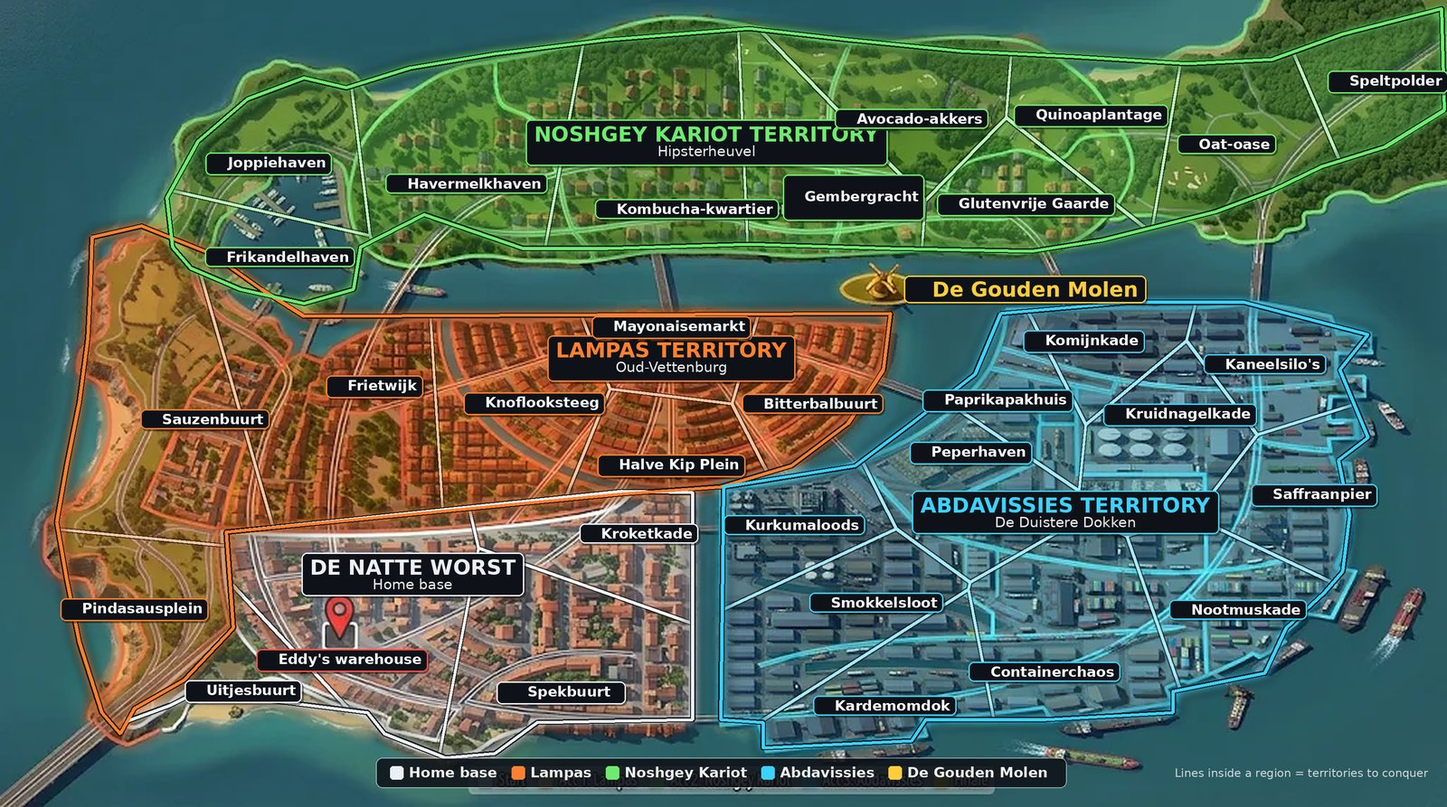
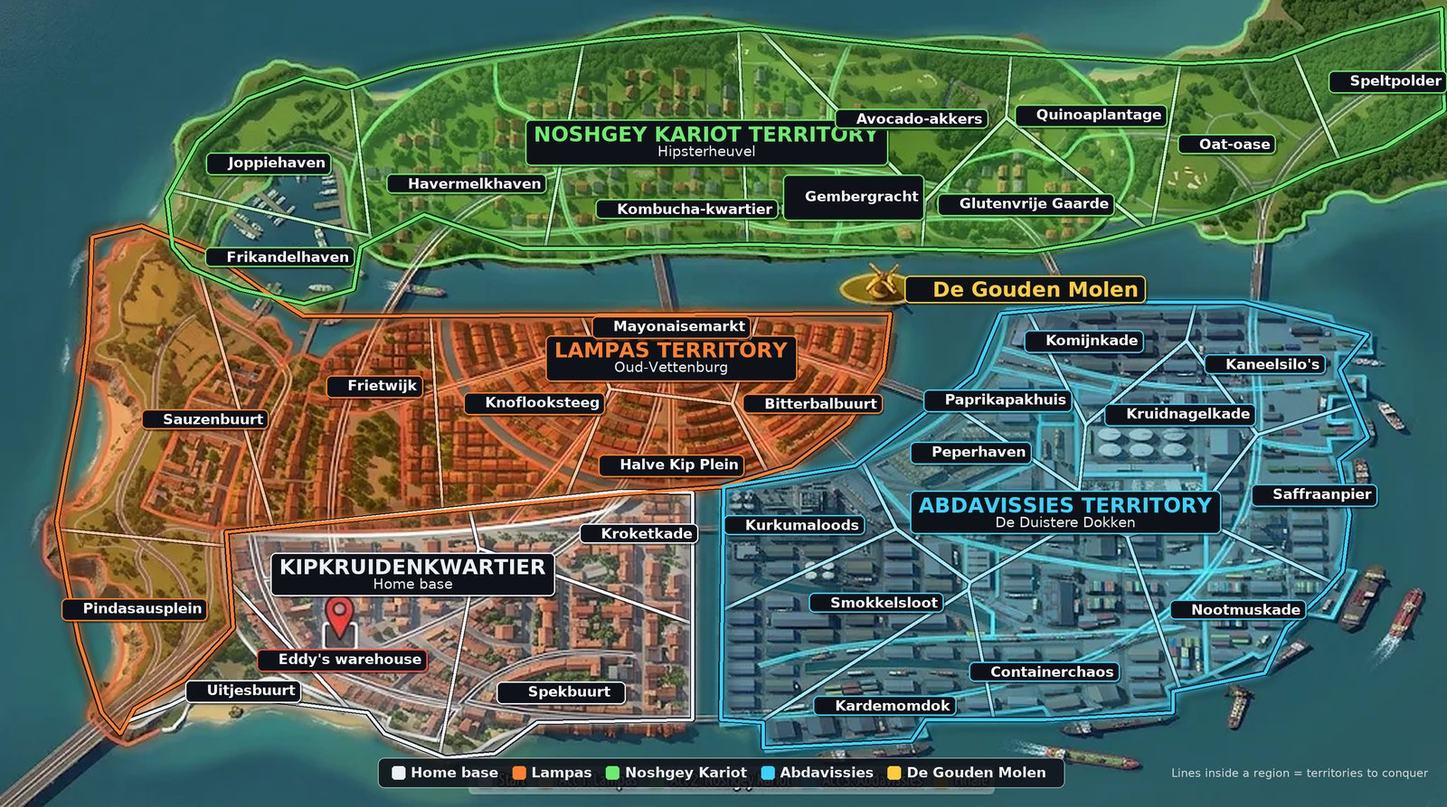
Rename the home district De Natte Worst to Kipkruidenkwartier
Map, labels, UI text, start menu, drive and README. Old saves are migrated on load.

diff --git a/browser-game/js/main.js b/browser-game/js/main.js
@@ -1,4 +1,4 @@
-// Spice Master Eddy: Chapter 0, De Natte Worst.
+// Spice Master Eddy: Chapter 0, Kipkruidenkwartier.
 // Neon Vice-style top-down browser game: three.js, PS2-style low-poly people with photo faces.
 import * as THREE from '../vendor/three.module.min.js';
 import { Music } from './music.js';
@@ -1127,11 +1127,11 @@ function renderPC() {
     if (!state.mapSeen) { state.mapSeen = true; setTimeout(onMapSeen, 400); }
   } else if (pcTab === 'bank') {
     title.textContent = 'My Wilders · Kaasbank';
-    body.innerHTML = `<div class="well">Balance: <b>${fmt(state.money)}</b><br>Passive income: <b>${fmt(state.income)}</b> per 6 sec<br>Naknikim employed: <b>${state.naknik}</b><br>Market day: <b>${econ.ensure().day}</b> · Spice in stock: <b>${econ.stockTotal()} kg</b><br>Territories: <b>${1 + d1Owned()}</b> (De Natte Worst${D1.filter(([, id]) => owns(id)).map(([n]) => ', ' + n).join('')})<br><br><i>"Whoever holds the spice, holds Kaasland." · Eddy Sr.</i></div>${econ.rankHTML()}${state.table ? econ.propertyHTML() : ''}`;
+    body.innerHTML = `<div class="well">Balance: <b>${fmt(state.money)}</b><br>Passive income: <b>${fmt(state.income)}</b> per 6 sec<br>Naknikim employed: <b>${state.naknik}</b><br>Market day: <b>${econ.ensure().day}</b> · Spice in stock: <b>${econ.stockTotal()} kg</b><br>Territories: <b>${1 + d1Owned()}</b> (Kipkruidenkwartier${D1.filter(([, id]) => owns(id)).map(([n]) => ', ' + n).join('')})<br><br><i>"Whoever holds the spice, holds Kaasland." · Eddy Sr.</i></div>${econ.rankHTML()}${state.table ? econ.propertyHTML() : ''}`;
     econ.propertyBind(body, renderPC);
   }
 }
-// ------------------------------------------------------------------ district 1: De Natte Worst (Spekbuurt, Kroketkade, Uitjesbuurt)
+// ------------------------------------------------------------------ district 1: Kipkruidenkwartier (Spekbuurt, Kroketkade, Uitjesbuurt)
 // Each territory is a mission (js/levels/*.js). Spekbuurt opens the other two; owning all three clears the district.
 const D1 = [['Spekbuurt', 'spekbuurt', 1], ['Kroketkade', 'kroketkade', 2], ['Uitjesbuurt', 'uitjesbuurt', 3]];
 const DISTRICT_BONUS = 5000;
@@ -1140,12 +1140,12 @@ const d1Owned = () => D1.filter(([, id]) => owns(id)).length;
 function checkDistrict() { // all three owned: the district is yours, once
   if (state.district1 || d1Owned() < D1.length || (mission && mission.active)) return false;
   state.district1 = true; addMoney(DISTRICT_BONUS);
-  toast('DE NATTE WORST IS YOURS', `All three territories are yours. Bonus: W ${DISTRICT_BONUS.toLocaleString('nl-NL')}. Next: Oud-Vettenburg, Lampas heartland.`, 7);
+  toast('KIPKRUIDENKWARTIER IS YOURS', `All three territories are yours. Bonus: W ${DISTRICT_BONUS.toLocaleString('nl-NL')}. Next: Oud-Vettenburg, Lampas heartland.`, 7);
   [523, 659, 784, 1046, 1318].forEach((f, i) => setTimeout(() => beep(f, 0.2, 'triangle', 0.06), i * 120));
   writeSave(); return true;
 }
 const PINS = [
-  ['De Natte Worst', 235, 430, 'own'], ['Spekbuurt', 420, 465, 'next'],
+  ['Kipkruidenkwartier', 235, 430, 'own'], ['Spekbuurt', 420, 465, 'next'],
   ['Sauzenbuurt', 145, 297, 'a1'], ['Frietwijk', 265, 274, 'a1'], ['Knoflooksteeg', 378, 286, 'a1'], ['Mayonaisemarkt', 475, 232, 'a1'], ['Halve Kip Plein', 475, 330, 'a1'], ['Bitterbalbuurt', 575, 286, 'a1'],
   ['Havermelkhaven', 330, 130, 'a2'], ['Kombucha-kwartier', 502, 147, 'a2'], ['Avocado-akkers', 645, 84, 'a2'],
   ['Komijnkade', 767, 242, 'a3'], ['Smokkelsloot', 620, 427, 'a3'], ['Containerchaos', 739, 476, 'a3'],
@@ -1158,7 +1158,7 @@ let MAPL = null;
 fetch('./assets/map_labels.json').then((r) => r.json()).then((j) => { MAPL = j; }).catch(() => {});
 function mapHTML(van) {
   const col = { lost: '#e8a33d', m1: '#e8a33d', m2: '#e8a33d', own: '#2e8b2e', next: '#ffd36b', a1: '#ff8030', a2: '#6ed36e', a3: '#3cc8ff', fin: '#ffcc33' };
-  const kindOf = (n, r) => { const d = D1.find((x) => x[0] === n); if (d && owns(d[1]) && econ.isRetaken(d[1])) return 'lost'; if (n === 'De Natte Worst' || (d && owns(d[1]))) return 'own'; if (d) return d[2] === 1 ? 'm1' : owns('spekbuurt') ? 'm2' : 'next'; if (r === 'lampas' && state.district1) return 'next'; return ({ start: 'next', lampas: 'a1', nosh: 'a2', abd: 'a3', fin: 'fin' })[r]; };
+  const kindOf = (n, r) => { const d = D1.find((x) => x[0] === n); if (d && owns(d[1]) && econ.isRetaken(d[1])) return 'lost'; if (n === 'Kipkruidenkwartier' || (d && owns(d[1]))) return 'own'; if (d) return d[2] === 1 ? 'm1' : owns('spekbuurt') ? 'm2' : 'next'; if (r === 'lampas' && state.district1) return 'next'; return ({ start: 'next', lampas: 'a1', nosh: 'a2', abd: 'a3', fin: 'fin' })[r]; };
   let h = `<div class="mapwrap"><img src="./assets/kaasland_map.jpg" alt="Map of Kaasland">`;
   if (MAPL) {
     const [W, H] = MAPL.size;
@@ -1203,8 +1203,8 @@ function bindMap() {
       own: d1 ? remixInfo(n, d1[1]) + (pcMode === 'van' ? ' <button class="b95" id="goM">Drive · remix raid</button>' : ' <i>Drive there in the Oofmobiel.</i>') : `<b>${n}</b>: your home base. The Eddy & Zn warehouse. ${pcMode === 'van' ? '<button class="b95" id="go">Drive</button>' : ''}`,
       lost: d1 ? remixInfo(n, d1[1]) + (pcMode === 'van' ? ' <button class="b95" id="goM">Drive · retake it</button>' : ' <i>Drive there in the Oofmobiel.</i>') : '',
       m1: `<b>Spekbuurt</b>: Lampas turf. Snackpaleis Spekbuurt sells their watered-down spice, and the back of house is full of Lampas. <b>Mission 1.</b> ${pcMode !== 'van' ? '<i>Drive there in the Oofmobiel.</i>' : state.kit.includes('maboota') ? '<button class="b95" id="goM">Drive · start mission</button>' : '<i>Get a weapon from The Russian first.</i>'}`,
-      m2: d1 ? `<b>${n}</b>: Lampas turf in De Natte Worst. ${blurb[n] || ''} <b>Mission ${d1[2]}.</b> ${drive('Drive · start mission')}` : '',
-      next: d1 ? `<b>${n}</b>: part of De Natte Worst, but the shoarma joints here still buy Lampas spice. <i>Take Spekbuurt first.</i>` : state.district1 ? `<b>${n}</b>: Oud-Vettenburg, the Lampas heartland. Next on the list. <i>(Missions in a later build.)</i> ${pcMode === 'van' ? '<button class="b95" id="goD">Drive to Oud-Vettenburg</button>' : '<i>Drive there in the Oofmobiel.</i>'}` : `<b>${n}</b>: part of De Natte Worst, but the shoarma joints here still buy Lampas spice. <i>(Coming in the next build.)</i>`,
+      m2: d1 ? `<b>${n}</b>: Lampas turf in Kipkruidenkwartier. ${blurb[n] || ''} <b>Mission ${d1[2]}.</b> ${drive('Drive · start mission')}` : '',
+      next: d1 ? `<b>${n}</b>: part of Kipkruidenkwartier, but the shoarma joints here still buy Lampas spice. <i>Take Spekbuurt first.</i>` : state.district1 ? `<b>${n}</b>: Oud-Vettenburg, the Lampas heartland. Next on the list. <i>(Missions in a later build.)</i> ${pcMode === 'van' ? '<button class="b95" id="goD">Drive to Oud-Vettenburg</button>' : '<i>Drive there in the Oofmobiel.</i>'}` : `<b>${n}</b>: part of Kipkruidenkwartier, but the shoarma joints here still buy Lampas spice. <i>(Coming in the next build.)</i>`,
       a1: `<b>${n}</b>: Lampas territory. Their watered-down spice, your customers. <i>Locked.</i>`,
       a2: `<b>${n}</b>: Noshgey Kariot territory. Organic, artisanal, wildly overpriced. <i>Locked.</i>`,
       a3: `<b>${n}</b>: Abdavissies territory. Nobody asks questions here. <i>Locked.</i>`,
@@ -1371,7 +1371,7 @@ function talkDad() {
       hire: 'A mixing table and a few Naknikim. Those boys aren\'t smart, but they mix like nobody else.',
       russian: 'Go on, the pawn shop at the east end. The Russian is expecting you.',
       map: 'Have a look at the map. Kaasland is big, and the Lampas are everywhere.',
-      free: state.district1 ? 'De Natte Worst is ours again, jongen. Your old man is proud. Oud-Vettenburg is where the Lampas really live.' : owns('spekbuurt') ? `Spekbuurt is ours. Now ${D1.filter(([, id]) => !owns(id)).map(([n]) => n).join(' and ')}. Then De Natte Worst is ours again.` : 'Spekbuurt is next. Three joints, all selling Lampas rubbish. Start there.',
+      free: state.district1 ? 'Kipkruidenkwartier is ours again, jongen. Your old man is proud. Oud-Vettenburg is where the Lampas really live.' : owns('spekbuurt') ? `Spekbuurt is ours. Now ${D1.filter(([, id]) => !owns(id)).map(([n]) => n).join(' and ')}. Then Kipkruidenkwartier is ours again.` : 'Spekbuurt is next. Three joints, all selling Lampas rubbish. Start there.',
     };
     dialogue([['Eddy Sr.', lines[state.step] || 'Get to work, jongen.']]);
   }
@@ -1391,7 +1391,7 @@ function updateObjective() {
     map: 'Check the <b>map of Kaasland</b> on the PC or in the Oofmobiel.',
     dad2: 'Talk to <b>Eddy Sr.</b> one last time.',
     russian: 'Visit <b>The Russian</b>: go inside <b>Pandjeshuis Spasibo</b>, east end of the street.',
-    free: state.district1 ? `<b style="color:#6ed36e">De Natte Worst is yours.</b>${state.loot ? ` Sell your ${state.loot} spice crate(s) on <b>Kaasplaats</b>.` : ''} <span style="color:#ffd36b">Next: Oud-Vettenburg, Lampas heartland (missions in a later build).</span>` : owns('spekbuurt') ? `<b style="color:#6ed36e">${D1.filter(([, id]) => owns(id)).map(([n]) => n).join(' and ')} ${d1Owned() > 1 ? 'are' : 'is'} yours.</b>${state.loot ? ` Sell your ${state.loot} spice crate(s) on <b>Kaasplaats</b>.` : ''} <span style="color:#ffd36b">Next: take ${D1.filter(([, id]) => !owns(id)).map(([n]) => `<b>${n}</b>`).join(' and ')}.</span> Drive there in the <b>Oofmobiel</b>.` : 'Kitted out. Chapter 0 done. <span style="color:#ffd36b">Next: take Spekbuurt from the Lampas.</span> Get in the <b>Oofmobiel</b> and drive there.',
+    free: state.district1 ? `<b style="color:#6ed36e">Kipkruidenkwartier is yours.</b>${state.loot ? ` Sell your ${state.loot} spice crate(s) on <b>Kaasplaats</b>.` : ''} <span style="color:#ffd36b">Next: Oud-Vettenburg, Lampas heartland (missions in a later build).</span>` : owns('spekbuurt') ? `<b style="color:#6ed36e">${D1.filter(([, id]) => owns(id)).map(([n]) => n).join(' and ')} ${d1Owned() > 1 ? 'are' : 'is'} yours.</b>${state.loot ? ` Sell your ${state.loot} spice crate(s) on <b>Kaasplaats</b>.` : ''} <span style="color:#ffd36b">Next: take ${D1.filter(([, id]) => !owns(id)).map(([n]) => `<b>${n}</b>`).join(' and ')}.</span> Drive there in the <b>Oofmobiel</b>.` : 'Kitted out. Chapter 0 done. <span style="color:#ffd36b">Next: take Spekbuurt from the Lampas.</span> Get in the <b>Oofmobiel</b> and drive there.',
   }[state.step];
   if (state.step === 'hire' && state.table && state.naknik > 0) state.step = 'dad2';
   setObjective(t || '');
@@ -1404,8 +1404,8 @@ function updateObjective() {
 const SAVE_KEY = 'spiceMasterEddy.save', SAVE_VER = 1;
 const SAVE_FIELDS = ['step', 'money', 'table', 'naknik', 'mapSeen', 'kit', 'metRussian', 'raids', 'loan', 'metNabil', 'metSchmatzel', 'loot', 'spekbuurt', 'spekbuurtLootTaken', 'owned', 'lootTaken', 'district1', 'drives', 'ammo', 'pool', 'loadout', 'stash', 'econ', 'best', 'daily', 'npcs'];
 let saveExtra = {}, loadingSave = false, titleConfirm = false;
-function readSave() {
-  try { const raw = localStorage.getItem(SAVE_KEY); if (!raw) return null; const d = JSON.parse(raw); return d && typeof d === 'object' && d.state && typeof d.state === 'object' ? d : null; }
+function readSave() { // the home district was renamed from De Natte Worst (2026-11): old saves carry the old name in news and turf text
+  try { let raw = localStorage.getItem(SAVE_KEY); if (!raw) return null; raw = raw.replace(/(De |de )?Natte Worst/g, 'Kipkruidenkwartier'); const d = JSON.parse(raw); return d && typeof d === 'object' && d.state && typeof d.state === 'object' ? d : null; }
   catch (e) { return null; }
 }
 function clearSave() { try { localStorage.removeItem(SAVE_KEY); } catch (e) { /* storage blocked */ } saveExtra = {}; }
@@ -1437,7 +1437,7 @@ function applySave(d) {
 let savedGame = readSave();
 // ---- start menu: Continue / New Game / Controls / Music / Credits (mouse, keyboard, controller and touch)
 let titleView = 'main', titleSel = 0;
-const districtSummary = (st) => (st.econ && st.econ.rep ? ` · ${rankOf(st.econ.rep).name}` : '') + (st.district1 ? ' · De Natte Worst is yours' : ((n) => (n ? ` · ${n}/3 of De Natte Worst` : ''))(['spekbuurt', 'kroketkade', 'uitjesbuurt'].filter((id) => (st.owned && st.owned[id]) || (id === 'spekbuurt' && st.spekbuurt)).length));
+const districtSummary = (st) => (st.econ && st.econ.rep ? ` · ${rankOf(st.econ.rep).name}` : '') + (st.district1 ? ' · Kipkruidenkwartier is yours' : ((n) => (n ? ` · ${n}/3 of Kipkruidenkwartier` : ''))(['spekbuurt', 'kroketkade', 'uitjesbuurt'].filter((id) => (st.owned && st.owned[id]) || (id === 'spekbuurt' && st.spekbuurt)).length));
 const titleItems = () => titleView === 'confirm' ? [['no', 'Nee, terug'], ['yes', 'Ja, opnieuw beginnen']]
   : titleView === 'controls' || titleView === 'credits' ? [['back', 'Terug']]
   : [...(savedGame ? [['cont', 'Continue']] : []), ['new', 'New Game'], ['controls', 'Controls'], ['music', 'Music'], ['credits', 'Credits']];
@@ -1543,7 +1543,7 @@ function startGame() {
   if (state.step !== 'title') return;
   $('title').style.display = 'none'; document.body.classList.remove('on-title'); camPos.copy(player.position).add(new THREE.Vector3(0, 14, 4.5)); camLook.copy(player.position); state.step = 'talk'; updateObjective(); beep(440, 0.1, 'triangle'); writeSave();
   if (musicPref) { try { music.start(); } catch (e) { /* audio optional */ } }
-  toast('DE NATTE WORST', 'Eddy Sr. is waiting for you in the warehouse.', 2.6);
+  toast('KIPKRUIDENKWARTIER', 'Eddy Sr. is waiting for you in the warehouse.', 2.6);
 }
 
 // ------------------------------------------------------------------ street life: traffic, cyclists, pedestrians
@@ -2386,9 +2386,9 @@ mission = initMission({ THREE, scene, camera, player, state, box, cyl, lam, soli
   neonTube, neonRect, signTex, canvasTex, car, $, maboota, equip, swing, bubble, say, addInteract, clearPlayerSplats, sun, hemi, canvas,
   makeVan: () => oof.clone(true), save: () => writeSave(), kitChanged: () => kitText(), shop: SHOP, streetTargets, streetHit: hitStreetPerson, setBounds: (b) => { BOUNDS.cur = b; }, updateObjective, setArea: (t) => { $('area').textContent = t; } });
 initInput({ state, getMission: () => mission, canvas, beep, toast, gfx: post });
-// top-down drive to the next district (js/drive.js): from the van map once De Natte Worst is yours
+// top-down drive to the next district (js/drive.js): from the van map once Kipkruidenkwartier is yours
 const oofDrive = initDrive({ THREE, renderer, canvasTex, signTex, beep, virt, isPaused });
-function startDrive() { oofDrive.start({ from: 'De Natte Worst', to: 'Oud-Vettenburg', onDone: afterDrive }); }
+function startDrive() { oofDrive.start({ from: 'Kipkruidenkwartier', to: 'Oud-Vettenburg', onDone: afterDrive }); }
 function afterDrive(res) {
   clearPlayerSplats(); clock.getDelta();
   if (res.arrived) {

diff --git a/browser-game/js/drive.js b/browser-game/js/drive.js
@@ -1,4 +1,4 @@
-// Oofmobiel drive: a top-down driving level between districts (De Natte Worst → Oud-Vettenburg).
+// Oofmobiel drive: a top-down driving level between districts (Kipkruidenkwartier → Oud-Vettenburg).
 // Classic overhead city driving: the camera looks straight down, north is up, the van rotates under it.
 // Eddy drives the blue Oofmobiel through a grid of Kaasland streets: honk (E / Space) and pedestrians press
 // themselves against the wall and cars pull over; run someone over and you pay smartengeld; cross the
@@ -23,7 +23,7 @@ const HONK_LINES = ['HÈ!', 'GEK!', 'TOETER NIET!', 'MIJN FRIKANDEL!', 'RIJ NORM
 const HIT_LINES = ['AU!', 'MIJN HEUP!', 'SMARTENGELD!', 'IK HEB EEN ADVOCAAT!', 'NIET OP MIJN KAAS!', 'OEF!'];
 const CAR_LINES = ['TOET TOET!', 'JA JA, RUSTIG!', 'BUSJE!', 'GA DAN!'];
 const LAMPAS_LINES = ['DIT IS ONZE STRAAT!', 'LAMPAS!', 'STOP DAT BUSJE!', 'VERDUND IS LEKKER!'];
-const ROOF_ADS = [['LAMPAS SPICE', '99% ZOUT · 1% SPICE'], ['FRIKANDEL XXL', 'NU MET MEER FRIKANDEL'], ['KAASLAND VERZEKERT', 'OOK UW BUSJE (NIET)'], ['DE NATTE WORST', 'NAT SINDS 1652'], ['KAASDOWS 95', 'NU MET MUIS'], ['GOUDA GAMES', 'WIE KAAS ZEGT...']];
+const ROOF_ADS = [['LAMPAS SPICE', '99% ZOUT · 1% SPICE'], ['FRIKANDEL XXL', 'NU MET MEER FRIKANDEL'], ['KAASLAND VERZEKERT', 'OOK UW BUSJE (NIET)'], ['KIPKRUIDENKWARTIER', 'GEKRUID SINDS 1652'], ['KAASDOWS 95', 'NU MET MUIS'], ['GOUDA GAMES', 'WIE KAAS ZEGT...']];
 
 import { makeOofmobiel, makeCar as makeStreetCar } from './vehicles.js';
 
@@ -195,7 +195,7 @@ export function initDrive(ctx) {
     if (opt.chimney) box(0.7, 1.4, 0.7, wallM(0x5a3a30), x0 + 1, h + 0.7, z0 + 1);
   }
   function buildSouthBlock(b) {
-    // De Natte Worst: brick warehouses and flat-roofed blocks, split in quadrants
+    // Kipkruidenkwartier: brick warehouses and flat-roofed blocks, split in quadrants
     const mx = (b.x0 + b.x1) / 2 + (Math.random() - 0.5) * 6, mz = (b.z0 + b.z1) / 2 + (Math.random() - 0.5) * 6;
     const quads = Math.random() < 0.35 ? [[b.x0, b.x1, b.z0, mz], [b.x0, b.x1, mz, b.z1]] : [[b.x0, mx, b.z0, mz], [mx, b.x1, b.z0, mz], [b.x0, mx, mz, b.z1], [mx, b.x1, mz, b.z1]];
     for (const [x0, x1, z0, z1] of quads) {
@@ -713,7 +713,7 @@ export function initDrive(ctx) {
   function finish(res) { stop(); if (opts && opts.onDone) opts.onDone(res); }
   const fmt = (t) => `${Math.floor(t / 60)}:${String(Math.floor(t % 60)).padStart(2, '0')}`;
   function start(o) {
-    opts = { from: 'De Natte Worst', to: 'Oud-Vettenburg', ...o };
+    opts = { from: 'Kipkruidenkwartier', to: 'Oud-Vettenburg', ...o };
     D.active = true; document.body.classList.add('driving'); hud.style.display = 'block';
     $('drvRoute').textContent = `${opts.from} → ${opts.to}`;
     $('drvHint').textContent = 'W / ↑ gas · S / ↓ brake · A D steer · Shift handbrake · E / Space honk · ⌫ restart';

diff --git a/browser-game/js/economy.js b/browser-game/js/economy.js
@@ -103,8 +103,8 @@ const rng32 = (a) => () => { a |= 0; a = (a + 0x6D2B79F5) | 0; let t = Math.imul
 const hashStr = (str) => { let h = 2166136261; for (const c of str) h = Math.imul(h ^ c.charCodeAt(0), 16777619); return h >>> 0; };
 // Daily events (one may roll each market day; they change the clients' orders for that day)
 const EVENTS = [
-  { id: 'pricewar', text: (b) => `The Lampas dump cheap ${b.name} on De Natte Worst: clients pay 25% less for it today`, pay: 0.75 },
-  { id: 'kermis', text: () => 'Kermis in De Natte Worst! Every client orders 50% more today', vol: 1.5 },
+  { id: 'pricewar', text: (b) => `The Lampas dump cheap ${b.name} on Kipkruidenkwartier: clients pay 25% less for it today`, pay: 0.75 },
+  { id: 'kermis', text: () => 'Kermis in Kipkruidenkwartier! Every client orders 50% more today', vol: 1.5 },
   { id: 'feest', text: () => "Nabil throws a party at Schmatzel's: Schmatzel orders double today", vol: 2, only: 'schmatzel' },
   { id: 'regen', text: () => 'Three days of rain: nobody goes out, clients order 30% less today', vol: 0.7 },
 ];
@@ -515,7 +515,7 @@ export function createEconomy(deps) {
     }
     h += '</table>';
     if (e.owed.length) h += `<p>Owed to you: ${e.owed.map((o) => `${o.name} ${fmt(o.amount)} (in ${o.days} day${o.days > 1 ? 's' : ''})`).join(', ')}</p>`;
-    h += `<p><small>Take more joints to win more clients. ${cl.length < CLIENTS.length ? 'Each De Natte Worst territory you own becomes a client.' : ''}</small></p>`;
+    h += `<p><small>Take more joints to win more clients. ${cl.length < CLIENTS.length ? 'Each Kipkruidenkwartier territory you own becomes a client.' : ''}</small></p>`;
     return h;
   }
   function reportBind(body, rerender) {
@@ -614,7 +614,7 @@ export function createEconomy(deps) {
   let qty = 5;
   function html() {
     const e = ensure(), disc = deps.discount ? deps.discount() : 0;
-    let h = `<div class="well" style="margin-bottom:8px"><b>Kruidenbeurs De Natte Worst</b> · Market day <b>${e.day}</b> · Balance <b>${fmt(state.money)}</b><br>
+    let h = `<div class="well" style="margin-bottom:8px"><b>Kruidenbeurs Kipkruidenkwartier</b> · Market day <b>${e.day}</b> · Balance <b>${fmt(state.money)}</b><br>
       Warehouse stock: <b>${stockTotal()} / ${cap()} kg</b>${disc > 0 ? ` · Home turf discount <b>${Math.round(disc * 100)}%</b>` : ''}<br>
       <small>Prices move after every outing. Lampas grade is cheap and diluted, Bio is the Noshgey Kariot's overpriced best. Dock spices come through the Abdavissies, a few kilos a day.</small></div>`;
     if (e.news.length) h += `<div class="well" style="margin-bottom:8px;background:#ffffe0"><b>KAASLAND SPICE NEWS</b><br>${e.news.map((n) => `· ${n.text} <b style="color:${n.f > 1 ? '#b00000' : '#007000'}">${n.f > 1 ? '▲' : '▼'} ${Math.round(Math.abs(n.f - 1) * 100)}%</b>`).join('<br>')}</div>`;

diff --git a/browser-game/js/mission.js b/browser-game/js/mission.js
@@ -7,7 +7,7 @@
 //   - red barrels explode when shot
 // Rules: 3 lives (Neon Vice Easy), mouse aim, click / F attack, E grab / throw, 1 melee / 2 + 3 guns (wheel / Tab cycle), R reload (active reload), Shift sprint (loud), Backspace restart.
 //
-// Only one level lives in the scene at a time: it is built 300 m east of De Natte Worst when a mission starts (enter(id)) and
+// Only one level lives in the scene at a time: it is built 300 m east of Kipkruidenkwartier when a mission starts (enter(id)) and
 // the previous one is torn down (meshes and collision solids). initMission(ctx) gets the engine helpers from main.js.
 //
 // Grid legend (shared by all levels):
@@ -785,13 +785,13 @@ export function initMission(ctx) {
       holster(); syncHeld(); maboota.visible = true; equip(true);
       const u = player.userData; u.body.rotation.set(0, 0, 0); u.body.position.y = 0; cleanBlood(player);
       player.position.set(5.3, 0, -5.8); player.rotation.y = Math.PI;
-      setArea('KAASLAND · DE NATTE WORST'); hideScreen(); for (const p of pops) p.el.remove(); pops.length = 0;
+      setArea('KAASLAND · KIPKRUIDENKWARTIER'); hideScreen(); for (const p of pops) p.el.remove(); pops.length = 0;
       vigEl.style.opacity = flashEl.style.opacity = 0; bannerEl.style.opacity = 0; hud();
       updateObjective(); if (ctx.save) ctx.save();
       fade.style.opacity = '0';
     }, 480);
   }
-  addInteract({ get obj() { return van; }, pos: () => van.position, r: 4.2, enabled: () => M.active && !P.dead && !R.results && !ARR, label: () => ownsLevel(LV.id) ? 'Oofmobiel · drive home' : 'Oofmobiel · retreat to De Natte Worst', act: exit });
+  addInteract({ get obj() { return van; }, pos: () => van.position, r: 4.2, enabled: () => M.active && !P.dead && !R.results && !ARR, label: () => ownsLevel(LV.id) ? 'Oofmobiel · drive home' : 'Oofmobiel · retreat to Kipkruidenkwartier', act: exit });
 
   // ================================================================== KILLS, KNOCKDOWNS, SCORE
   function addKillScore(e, type) {

diff --git a/browser-game/index.html b/browser-game/index.html
@@ -4,7 +4,7 @@
 <meta charset="utf-8">
 <meta name="viewport" content="width=device-width, initial-scale=1, maximum-scale=1, user-scalable=no, viewport-fit=cover">
 <meta name="mobile-web-app-capable" content="yes"><meta name="apple-mobile-web-app-capable" content="yes">
-<title>Spice Master Eddy: De Natte Worst</title>
+<title>Spice Master Eddy: Kipkruidenkwartier</title>
 <style>
   /* ---------- fonts (OFL, vendored in assets/fonts so the game works offline) ---------- */
   @font-face { font-family: "Bungee"; src: url("assets/fonts/bungee.woff2") format("woff2"); font-display: swap; }
@@ -182,7 +182,7 @@
 </head>
 <body class="on-title">
 <canvas id="game"></canvas>
-<div id="area" class="hud">Kaasland · De Natte Worst</div>
+<div id="area" class="hud">Kaasland · Kipkruidenkwartier</div>
 <div id="objective" class="hud"></div>
 <div id="money" class="hud">W 0000000</div>
 <div id="income" class="hud"></div>
@@ -206,7 +206,7 @@
   <div class="tag">Behind every shoarma joint is a spice war.</div>
   <div class="menu" id="tmenu"></div>
   <div class="tinfo" id="tinfo"></div>
-  <div class="tfoot">KAASLAND · CHAPTER 0: DE NATTE WORST</div>
+  <div class="tfoot">KAASLAND · CHAPTER 0: KIPKRUIDENKWARTIER</div>
 </div></div>
 <script type="module" src="./js/main.js"></script>
 </body>

diff --git a/browser-game/tools/build_map.py b/browser-game/tools/build_map.py
@@ -14,7 +14,7 @@ img = base.resize((W, H), Image.LANCZOS).filter(ImageFilter.UnsharpMask(radius=2
 REGIONS = {
     'start': dict(col=(235, 240, 245), poly=[(160, 377), (440, 348), (490, 349), (490, 510), (380, 512), (350, 534), (315, 537),
                                              (272, 520), (260, 505), (140, 490), (120, 500), (90, 511), (95, 502), (130, 482), (165, 445)],
-                  seeds={'De Natte Worst': (235, 430), 'Spekbuurt': (420, 465), 'Kroketkade': (450, 380), 'Uitjesbuurt': (175, 486)}),
+                  seeds={'Kipkruidenkwartier': (235, 430), 'Spekbuurt': (420, 465), 'Kroketkade': (450, 380), 'Uitjesbuurt': (175, 486)}),
     'lampas': dict(col=(255, 128, 48), poly=[(65, 168), (100, 160), (150, 180), (185, 205), (215, 224), (630, 222), (625, 262), (600, 300),
                                              (560, 330), (510, 345), (440, 350), (160, 377), (165, 445), (130, 482), (95, 502), (85, 520),
                                              (72, 505), (56, 455), (47, 410), (40, 370), (47, 330), (56, 285), (62, 240), (64, 200)],
@@ -40,7 +40,7 @@ TERR_LABELS = {
     'Avocado-akkers': (645, 84), 'Glutenvrije Gaarde': (726, 145), 'Oat-oase': (868, 102),
     'Mayonaisemarkt': (475, 232), 'Frietwijk': (265, 274), 'Knoflooksteeg': (378, 286), 'Sauzenbuurt': (145, 297),
     'Halve Kip Plein': (475, 330), 'Bitterbalbuurt': (575, 286),
-    'Spekbuurt': (397, 491), 'De Natte Worst': None, 'Kroketkade': (452, 378), 'Uitjesbuurt': (172, 490),
+    'Spekbuurt': (397, 491), 'Kipkruidenkwartier': None, 'Kroketkade': (452, 378), 'Uitjesbuurt': (172, 490),
     'Joppiehaven': (190, 116), 'Speltpolder': (982, 58), "Kaneelsilo's": (895, 258), 'Paprikapakhuis': (706, 284),
     'Pindasausplein': (95, 432), 'Quinoaplantage': (772, 82), 'Kurkumaloods': (562, 372), 'Nootmuskade': (876, 432), 'Kardemomdok': (626, 500),
     'Komijnkade': (767, 242), 'Kruidnagelkade': (835, 294), 'Peperhaven': (687, 321), 'Saffraanpier': (930, 351),
@@ -50,7 +50,7 @@ TITLES = [  # (title, subtitle, centre, region)
     ('NOSHGEY KARIOT TERRITORY', 'Hipsterheuvel', (500, 101), 'nosh'),
     ('LAMPAS TERRITORY', 'Oud-Vettenburg', (475, 254), 'lampas'),
     ('ABDAVISSIES TERRITORY', 'De Duistere Dokken', (754, 363), 'abd'),
-    ('DE NATTE WORST', 'Home base', (292, 407), 'start'),
+    ('KIPKRUIDENKWARTIER', 'Home base', (292, 407), 'start'),
 ]
 OTHER = [("Eddy's warehouse", (242, 468)), ('De Gouden Molen', (712, 205))]
 
@@ -186,7 +186,7 @@ for nm, pos in TERR_LABELS.items():
     plate(pos[0] * S, pos[1] * S, [(nm, f_terr, (255, 255, 255, 255))], accent=col, pad=12, lead=34, **extra)
     LABEL_BOXES[nm] = dict(box=[round(v / S, 1) for v in BOXES_LAST], region=rk, dot=[round((BOXES_LAST[0] + 12 + 17) / S, 1), pos[1]])
 plate(OTHER[0][1][0] * S, OTHER[0][1][1] * S, [(OTHER[0][0], f_terr, (255, 255, 255, 255))], accent=(255, 80, 70), pad=12, lead=34)
-LABEL_BOXES['De Natte Worst'] = dict(box=[round(v / S, 1) for v in BOXES_LAST], region='start', dot=[round((BOXES_LAST[0] + 12 + 17) / S, 1), OTHER[0][1][1]])
+LABEL_BOXES['Kipkruidenkwartier'] = dict(box=[round(v / S, 1) for v in BOXES_LAST], region='start', dot=[round((BOXES_LAST[0] + 12 + 17) / S, 1), OTHER[0][1][1]])
 plate(OTHER[1][1][0] * S + 40, OTHER[1][1][1] * S, [(OTHER[1][0], f_title, (255, 205, 60, 255))], accent=(255, 205, 60), pad=16, lead=44)
 LABEL_BOXES['De Gouden Molen'] = dict(box=[round(v / S, 1) for v in BOXES_LAST], region='fin', dot=[round((BOXES_LAST[0] + 16 + 22) / S, 1), OTHER[1][1][1]])
 import json

diff --git a/browser-game/README.md b/browser-game/README.md
@@ -79,9 +79,9 @@ On phones the page can't zoom or scroll, it respects notches (safe areas) and th
 
 ## Story flow (Chapter 0)
 Talk to Eddy Sr. → list the 6 junk items on the PC → sell them on Kaasplaats → buy a mixing table → hire a Naknik →
-Eddy Sr.'s farewell → visit The Russian (pawnshop, De Natte Worst) → buy a weapon → end of Chapter 0.
+Eddy Sr.'s farewell → visit The Russian (pawnshop, Kipkruidenkwartier) → buy a weapon → end of Chapter 0.
 
-## Story flow (District 1: De Natte Worst)
+## Story flow (District 1: Kipkruidenkwartier)
 Drive the Oofmobiel to a territory from the map (needs a weapon). Each one is a mission; clear it and it's yours.
 1. **Spekbuurt** (Mission 1): Snackpaleis Spekbuurt, a Lampas shoarma joint. Owning it opens the other two.
 2. **Kroketkade** (Mission 2): a brick corner snackbar on a rainy quay jutting into the canal: the shop, a checkered kitchen, storeroom, staff room and a purple garage with its roller shutter open onto the quay. 16 Lampas, the frituurbaas in the garage.
@@ -93,7 +93,7 @@ Progress is saved per level (`state.owned`, `state.lootTaken`); old saves with `
 To add a mission: copy a file in `js/levels/`, add it to `LEVELS` in `js/mission.js`, and launch it with `mission.enter(id)`.
 
 ## Oofmobiel drive (district transitions)
-Once De Natte Worst is yours, open the van map (get in the Oofmobiel), click an Oud-Vettenburg territory and press
+Once Kipkruidenkwartier is yours, open the van map (get in the Oofmobiel), click an Oud-Vettenburg territory and press
 **Drive to Oud-Vettenburg**. The camera goes straight overhead and you drive the blue van from Eddy & Zn across the city:
 - **Controls:** W / ↑ gas, S / ↓ brake and reverse, A D steer, Shift handbrake (drift), **E / Space honk**, Backspace restart.
   Controller and touch: point the left stick (or left thumb) where you want to go and the van drives there; A / ACTIE honks.
@@ -110,13 +110,13 @@ Design: the *Gang Wars Economy* proposal (Claude Doc linked from the project). C
 - **Market days:** one passes after every outing (a cleared mission, i.e. `state.raids` going up, or an Oofmobiel drive), the same clock Nabil uses. Idling in the warehouse never costs anything.
 - **Kruidenbeurs** (PC icon `%`, appears once the mixing table is bought): 8 ingredients in 3 grades (Lampas ★, Standaard ★★★, Bio ★★★★★). Prices drift every day (random walk pulled back to base), news events push one spice up or down 25-45% for 2-3 days, and the trend column shows the last 8 days. Dock spices (kurkuma, kaneel, kardemom, saffraan) come through the Abdavissies with a few kilos of supply a day.
 - **Stock:** 200 kg in the home warehouse; sell back at 70%. Lampas spice crates from missions can be unpacked into 10 kg of Lampas-grade stock (or still sold on Kaasplaats).
-- **Home turf discount:** 3% per owned De Natte Worst territory, +6% once the whole district is yours.
+- **Home turf discount:** 3% per owned Kipkruidenkwartier territory, +6% once the whole district is yours.
 - **Mengkamer** (PC icon `B`, step 2): pick the blend the Naknikim mix (Kip Shoarma, Lams Shoarma, Kebab Kruiden; De Gouden Mix stays locked). Each Naknik mixes 10 kg per market day from stock, using grades cheapest or best first; quality = the average stars of the spices used, and a Naknik sometimes wastes 2 kg. Blends sell to the Groothandel (up to 40 kg a day, price = value x (0.4 + 0.12 x stars)).
-- **Dagrapport** (PC icon `D`, step 3): Shoarma Schmatzel and every owned De Natte Worst joint are clients that order one blend a day (Schmatzel and Spekbuurt Kip, Kroketkade Lams, Uitjesbuurt Kebab). At the end of each market day the Naknikim mix first, then clients take their order from blend stock and pay value x (0.6 + 0.15 x stars) per kg. Trust (0-100) rises with full, good orders and falls with missed or low-quality ones; under 20 a client buys from the Lampas for 2 days. Personalities: Schmatzel is loyal, Kees haggles (a deal card: 20% off, insist, or cut off), Ruud is picky, Mevrouw Ui pays a day or two late. Blend values: Kip W 35, Lams W 40, Kebab W 60 per kg.
+- **Dagrapport** (PC icon `D`, step 3): Shoarma Schmatzel and every owned Kipkruidenkwartier joint are clients that order one blend a day (Schmatzel and Spekbuurt Kip, Kroketkade Lams, Uitjesbuurt Kebab). At the end of each market day the Naknikim mix first, then clients take their order from blend stock and pay value x (0.6 + 0.15 x stars) per kg. Trust (0-100) rises with full, good orders and falls with missed or low-quality ones; under 20 a client buys from the Lampas for 2 days. Personalities: Schmatzel is loyal, Kees haggles (a deal card: 20% off, insist, or cut off), Ruud is picky, Mevrouw Ui pays a day or two late. Blend values: Kip W 35, Lams W 40, Kebab W 60 per kg.
 - **Remix raids** (step 4, replayability): an owned joint can be raided again from the van map ("Drive · remix raid"); the Lampas move back in every market day. The run is rolled from a seed (level + market day, so reloading never rerolls it): non-boss Lampas swap spawn spots and weapons, some stay home, 3 loot crates sit at random spots from the level's list, and one modifier sets the night: Gewone avond, Stroomstoring (dark, x1.3), Spitsuur (whole crew, x1.5), Kassa vol (more guns, x2), Rustige avond (fewer Lampas, x0.5). Bosses and named foes keep their rooms. The grade counts only the Lampas that were there. Personal bests per level (`state.best`: score, grade, time, runs) show on the results screen and the map. `mission.enter(id, { remix: mission.remixFor(id, day) })`; test hooks `mission.debugFoes()`, `mission.debugClear()`.
-- **Klusbord** (PC icon `J`, step 5): three jobs per market day, rolled from the day's seed: hit a Lampas stash (tonight's remix raid at an owned joint, bonus pay), collect a debt from a late payer (same, they pay now +25%), a spoed-order (hand over 10-20 kg of a blend at 1.6x value), a supplier deal (30 kg Standaard spice at 40% off), and once De Natte Worst is yours, scout Oud-Vettenburg (the drive). Raid jobs show on the van map pin. A daily event may roll too (Lampas price war on one blend, kermis +50% orders, Nabil's party, rain -30%). Mission results set `state.lastRaid` so the economy can match raid jobs.
-- **Turf and Lampas heat** (step 6): each owned De Natte Worst joint has control 0-100 (starts at 60; +5 for a full order, -10 for a missed one, -5 a day while heat is 40+). Control sets client pay (x0.5 at 0, x1.2 at 100). Lampas heat (0-100) rises +25 per joint taken, +2 a day per joint held and +5 per remix raid, and cools 4 a day. At 40 a Lampas price war, at 60 thugs lean on a client (control -10), at 80 (or a joint at 0 control) they retake the weakest joint: no orders until you win it back with a Retake raid from the van map (heat -30). At 100 they raid the warehouse (30% of the spice gone). Tribute (40 W per heat point) drops heat by 30. Shown in the Dagrapport and under the map.
-- **Machinehandel** (step 7, under Kaasplaats): Dad's old trade. Buy shoarma machines used (two seeded offers a day) or new, hold up to 4, and sell them to client joints (grill W 1.400, pita oven 1.000, frituur 850, slicer 600). An installed machine raises that joint's daily order (+40/+20/+15/+10%), trust +10 and control +10. A haggling client with your machine can have it repossessed (trust -30). Klusbord machine-delivery jobs (once De Natte Worst is yours) pay 25% extra on arrival in Oud-Vettenburg, with Lampas heat +10.
+- **Klusbord** (PC icon `J`, step 5): three jobs per market day, rolled from the day's seed: hit a Lampas stash (tonight's remix raid at an owned joint, bonus pay), collect a debt from a late payer (same, they pay now +25%), a spoed-order (hand over 10-20 kg of a blend at 1.6x value), a supplier deal (30 kg Standaard spice at 40% off), and once Kipkruidenkwartier is yours, scout Oud-Vettenburg (the drive). Raid jobs show on the van map pin. A daily event may roll too (Lampas price war on one blend, kermis +50% orders, Nabil's party, rain -30%). Mission results set `state.lastRaid` so the economy can match raid jobs.
+- **Turf and Lampas heat** (step 6): each owned Kipkruidenkwartier joint has control 0-100 (starts at 60; +5 for a full order, -10 for a missed one, -5 a day while heat is 40+). Control sets client pay (x0.5 at 0, x1.2 at 100). Lampas heat (0-100) rises +25 per joint taken, +2 a day per joint held and +5 per remix raid, and cools 4 a day. At 40 a Lampas price war, at 60 thugs lean on a client (control -10), at 80 (or a joint at 0 control) they retake the weakest joint: no orders until you win it back with a Retake raid from the van map (heat -30). At 100 they raid the warehouse (30% of the spice gone). Tribute (40 W per heat point) drops heat by 30. Shown in the Dagrapport and under the map.
+- **Machinehandel** (step 7, under Kaasplaats): Dad's old trade. Buy shoarma machines used (two seeded offers a day) or new, hold up to 4, and sell them to client joints (grill W 1.400, pita oven 1.000, frituur 850, slicer 600). An installed machine raises that joint's daily order (+40/+20/+15/+10%), trust +10 and control +10. A haggling client with your machine can have it repossessed (trust -30). Klusbord machine-delivery jobs (once Kipkruidenkwartier is yours) pay 25% extra on arrival in Oud-Vettenburg, with Lampas heat +10.
 - **Panden** (step 8, under My Wilders): buy a warehouse in a held territory (Loods Kroketkade W 6.000, Kelder Uitjesbuurt 4.500, Opslag Spekbuurt 5.000) for +100-150 kg, +1 machine slot and 2 Naknik places (W 450 each, they mix but give no 6-second trickle). Control there is shielded from the daily heat pressure. A Naknik on guard cuts a Lampas warehouse raid from 30% to 10% of the spice. A warehouse in a retaken territory shuts until you win it back.
 - **Ranks and challenges** (step 9): reputation from client sales (W 20 = 1), raids (100, S grade 250), jobs (60) and retakes (150) sets the rank: Hulpje, Mengmeester (500), Kruidenhandelaar (1.500), Kruidenbaron (4.000), Spice Master (10.000), shown under My Wilders and on the start menu. Every level has four challenge stars, kept forever: S grade, no guns fired, under par (60 s + 8 s per Lampas, or `par` in the level file) and no hits taken; they show on the results screen and the map. **Daily challenge:** one seeded remix per real date on one of your joints, the same for every player that day, started from the van map; the best score of the day is kept in `state.daily`.
 - **NPCs and the Ideeënboek** (`js/npcs.js`): seven people in Kipkruidenkwartier give Eddy ideas, each written into the Ideeënboek (PC icon `I`) and each unlocking a system: cousin **Shooki** (after your first joint; one extra Klusbord job a day), bookkeeper **Henk Cijfer** (at W 5.000; tomorrow's price arrows on the Kruidenbeurs), **Slager Bram** (bring him 10 kg Lams Shoarma of 3+ stars; he becomes a client and at trust 70+ makes Bio 25% cheaper), **Ome Joop** on the canal bench (pages of Eddy Sr.'s notebook at the district bonus / Mengmeester, Kruidenhandelaar and Kruidenbaron: the Slagerskruiden and Shoarma Speciaal blends and the first De Gouden Mix clue), **Monteur Mo** (after your first machine sale; broken machines for scrap, fixed overnight), **De Fluisteraar** under the bridge (from market day 5; W 50 for tomorrow's news, which is rolled a day ahead) and **Kevin**, a fed-up Lampas (Lampas heat 40+; a warning in the Dagrapport, and W 300 makes the next retake a quiet night). Met NPCs are saved in `state.npcs`; `__sme.npcs.CAST` exposes them.
